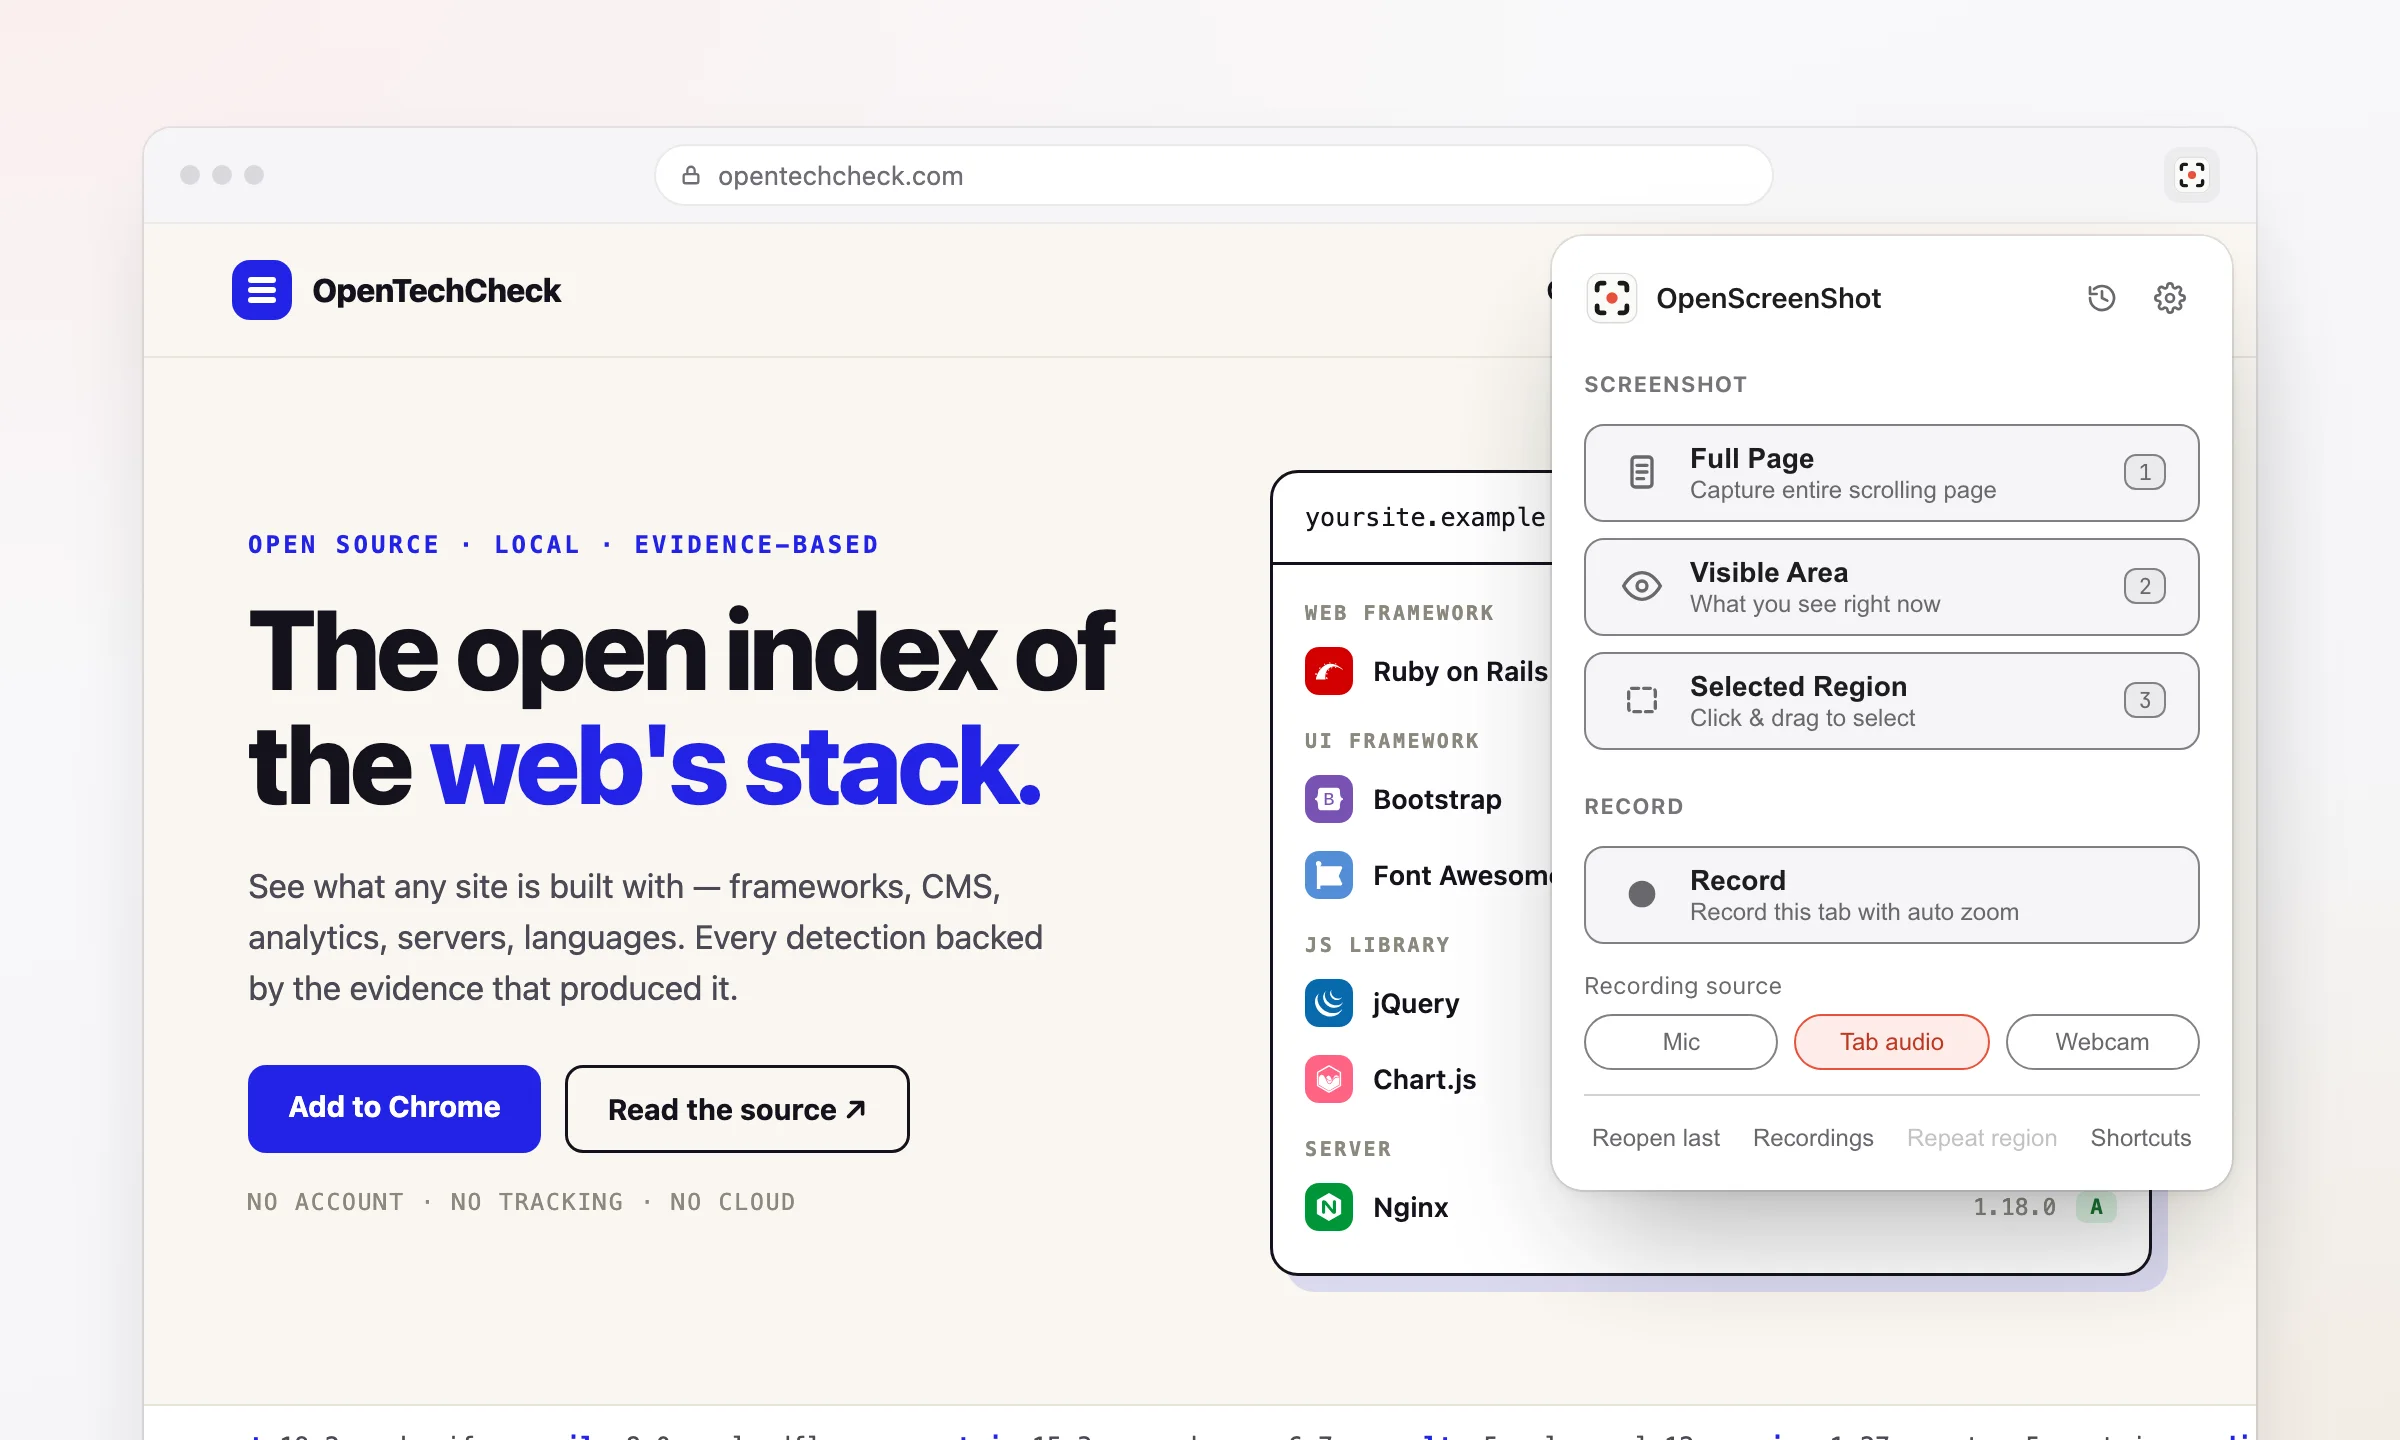
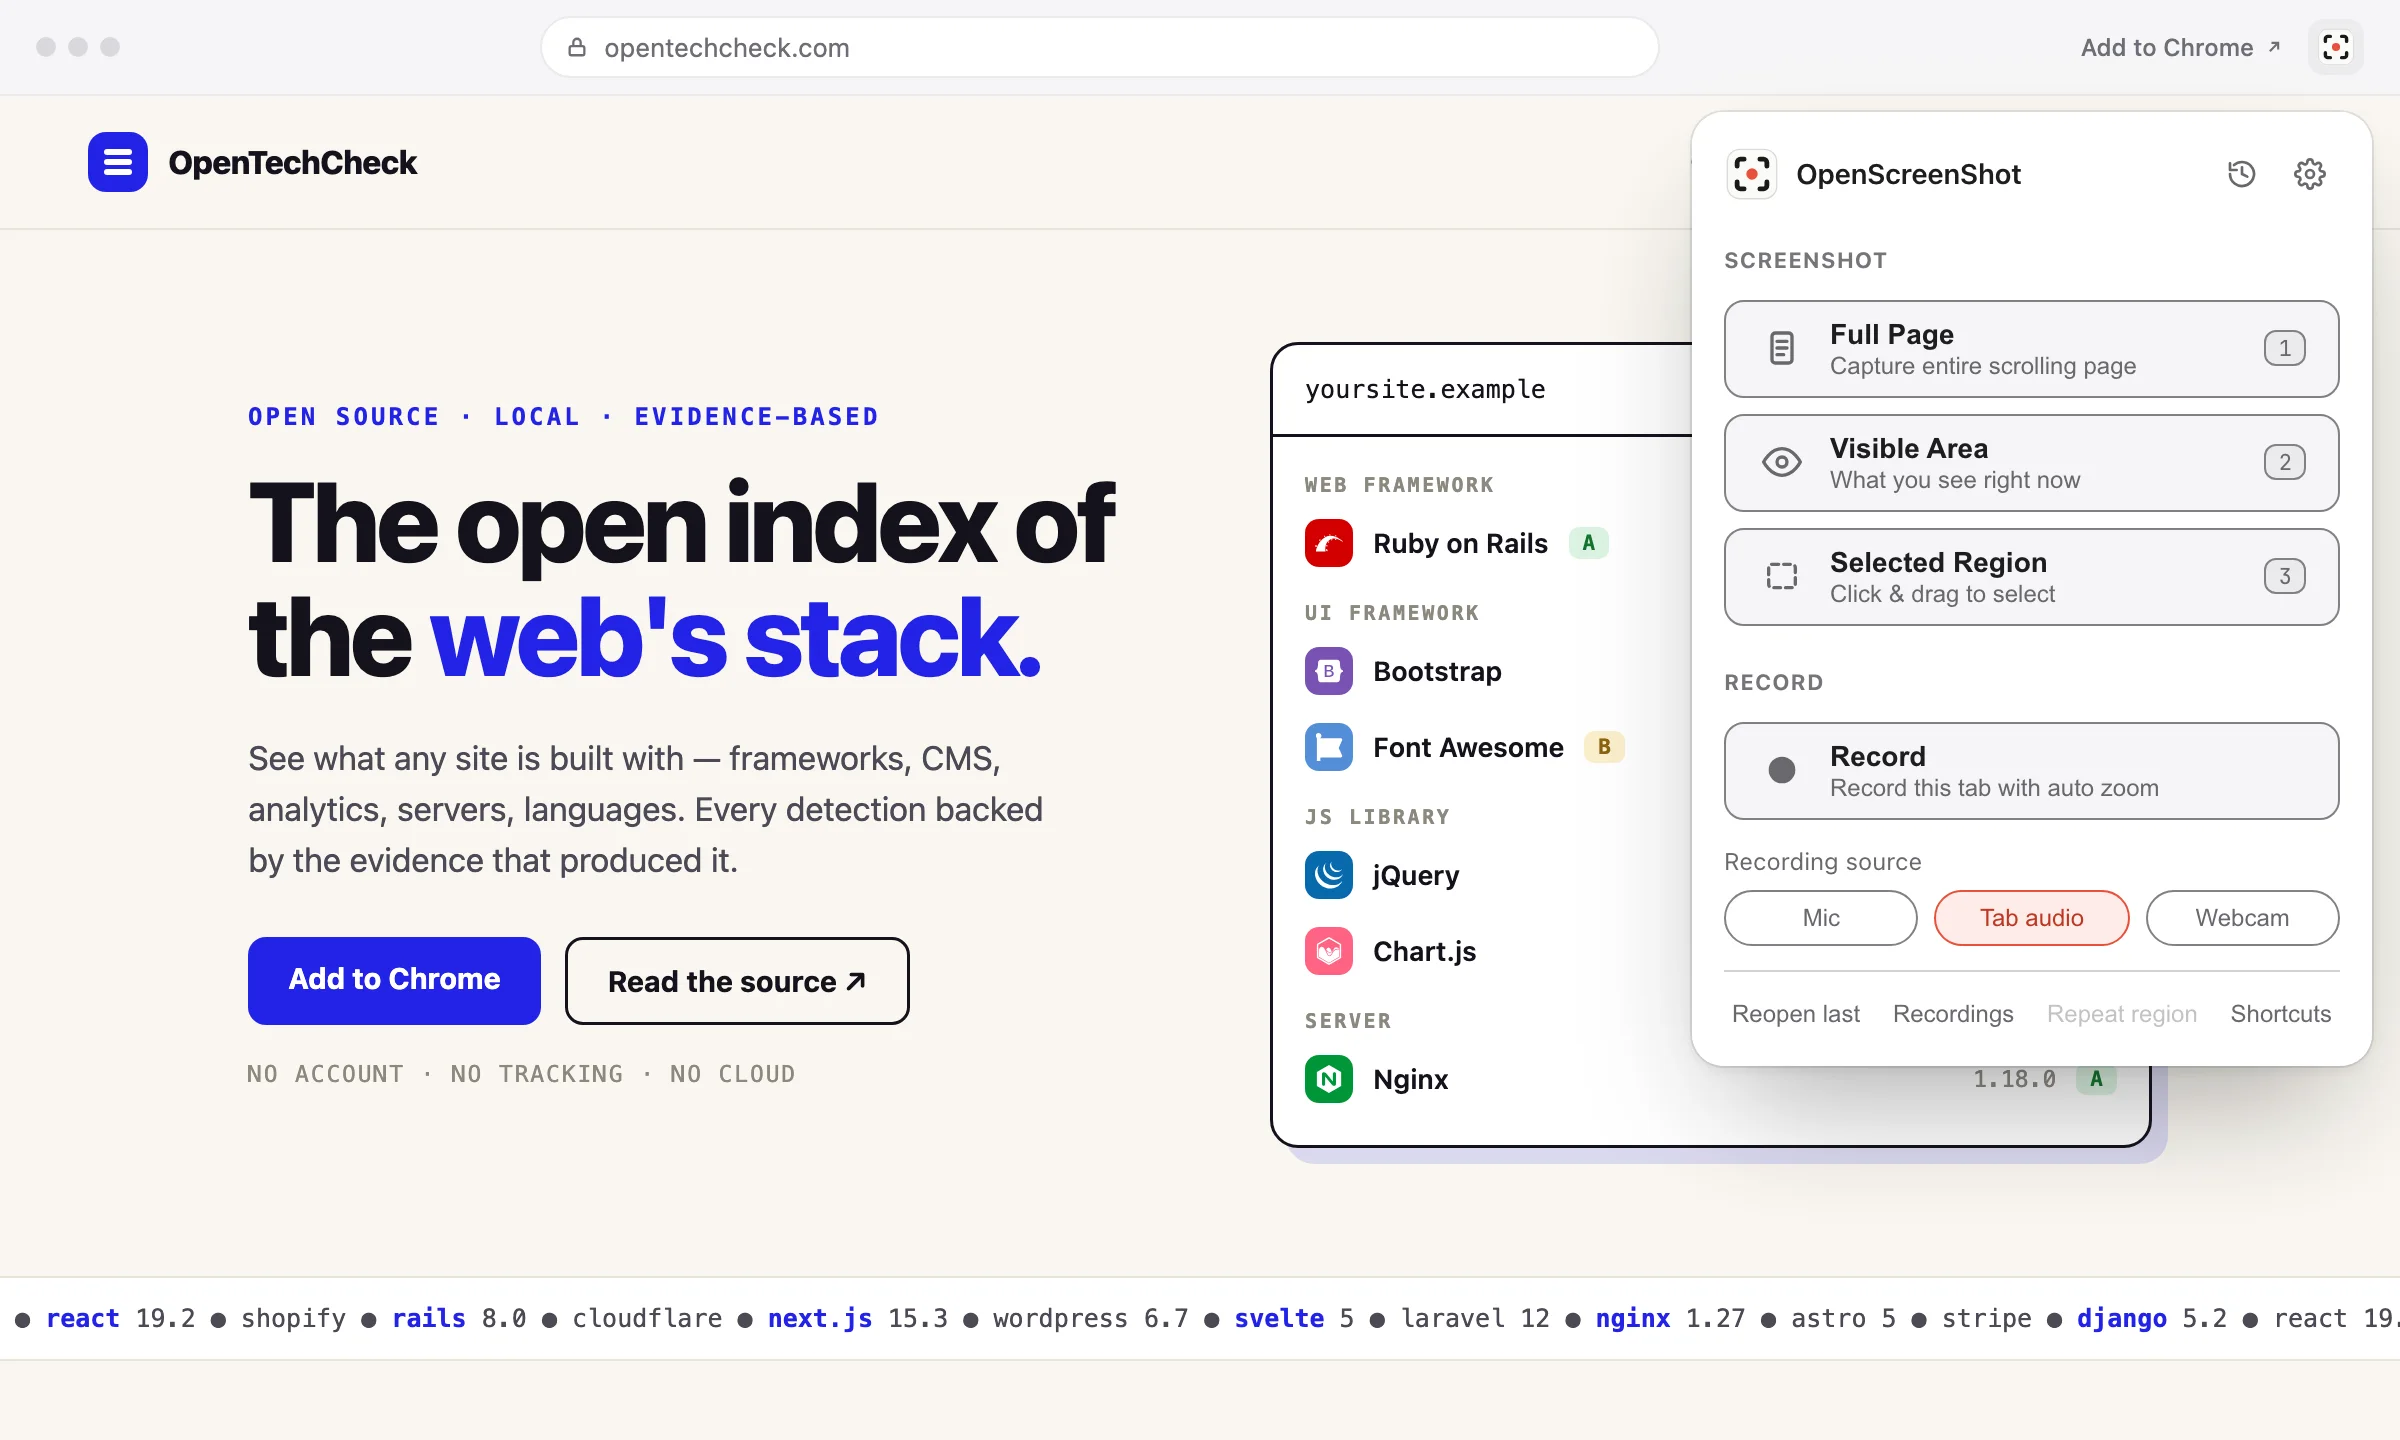
feat(site): give the hero showcase a real stage
The gradient frame becomes a lit stage instead of a thin rim: a
radial highlight top-left, a wine shade sinking bottom-right, inset
panels with their own drop shadow, and 28px outer corners. Tabs carry
their line icons beside the labels. The five site posters render the
browser window full-bleed — the old light ground margin double-framed
every shot inside the site's own cards — and the hero window gains the
corner 'Add to Chrome' link the reference wears. The unused flat
frame-grad utility and token are gone.

diff --git a/scripts/shots/hero.html b/scripts/shots/hero.html
@@ -6,14 +6,7 @@
     <link rel="stylesheet" href="poster-site.css" />
     <style>
       /* The homepage's top shot, 1200x720: the real popup, whole, hanging
-         from the toolbar icon of a browser window that runs off the bottom
-         of the frame. */
-      .window {
-        left: 72px;
-        right: 72px;
-        top: 64px;
-        height: 720px;
-      }
+         from the toolbar icon of a full-bleed browser window. */
       .window-top {
         height: 48px;
         padding: 0 18px;
@@ -27,19 +20,18 @@
         height: 672px;
       }
       .window-body iframe {
-        width: 1056px;
+        width: 1200px;
         height: 1100px;
       }
       /* Chrome opens the popup under the toolbar icon it belongs to, flush
          with the window's right edge. */
       .popup {
-        right: 84px;
-        top: 118px;
+        right: 14px;
+        top: 56px;
       }
     </style>
   </head>
   <body>
-    <div class="ground"></div>
     <div class="window">
       <div class="window-top">
         <span class="lights"><i></i><i></i><i></i></span>
@@ -56,6 +48,19 @@
             <path d="M8 11V7a4 4 0 0 1 8 0v4" />
           </svg>
           opentechcheck.com
+        </span>
+        <span class="install-link">
+          Add to Chrome
+          <svg
+            width="10"
+            height="10"
+            viewBox="0 0 24 24"
+            fill="none"
+            stroke="currentColor"
+            stroke-width="2.5"
+          >
+            <path d="M7 17 17 7M9 7h8v8" />
+          </svg>
         </span>
         <span class="ext-icon"><img src="brand-mark.svg" width="20" height="20" alt="" /></span>
       </div>

diff --git a/scripts/shots/shot-2.html b/scripts/shots/shot-2.html
@@ -9,25 +9,19 @@
          src/content/region-select.ts draws: a 40% mask, a dashed black
          border with a white halo, four round corner handles, the live W×H
          readout, and the Capture / Cancel bar. */
-      .window {
-        left: 80px;
-        right: 80px;
-        top: 64px;
-        height: 700px;
-      }
       .window-body {
-        height: 656px;
+        height: 676px;
       }
       .window-body iframe {
-        width: 1040px;
+        width: 1200px;
         height: 1000px;
       }
       .sel {
         position: absolute;
-        left: 548px;
-        top: 108px;
-        width: 420px;
-        height: 300px;
+        left: 648px;
+        top: 118px;
+        width: 452px;
+        height: 310px;
         border: 2px dashed #000;
         outline: 1px solid #fff;
         outline-offset: 1px;
@@ -88,7 +82,6 @@
     </style>
   </head>
   <body>
-    <div class="ground"></div>
     <div class="window">
       <div class="window-top">
         <span class="lights"><i></i><i></i><i></i></span>
@@ -102,7 +95,7 @@
           <span class="h" style="right: -7px; top: -7px"></span>
           <span class="h" style="left: -7px; bottom: -7px"></span>
           <span class="h" style="right: -7px; bottom: -7px"></span>
-          <span class="readout">420 × 300</span>
+          <span class="readout">452 × 310</span>
           <span class="bar"><b>Capture</b><span>Cancel</span></span>
         </div>
       </div>

diff --git a/scripts/shots/poster-site.css b/scripts/shots/poster-site.css
@@ -25,26 +25,15 @@ body {
   position: relative;
 }
 
-/* ---- Ground ---- */
-.ground {
-  position: absolute;
-  inset: 0;
-  background:
-    radial-gradient(110% 80% at 0% 0%, rgba(232, 80, 58, 0.07), rgba(232, 80, 58, 0) 60%),
-    radial-gradient(90% 80% at 100% 100%, rgba(245, 166, 35, 0.08), rgba(245, 166, 35, 0) 60%),
-    linear-gradient(160deg, #fbfbfc 0%, #f2f2f4 100%);
-}
-
-/* ---- Browser window ---- */
+/* ---- Browser window ----
+ * Full-bleed: the window IS the poster. The site supplies the stage around
+ * it (the hero gradient frame, the section cards), so a ground margin here
+ * would double-frame every shot. */
 .window {
   position: absolute;
+  inset: 0;
   background: #ffffff;
-  border-radius: 14px;
   overflow: hidden;
-  box-shadow:
-    0 0 0 1px rgba(23, 23, 26, 0.08),
-    0 1px 2px rgba(23, 23, 26, 0.05),
-    0 24px 48px -20px rgba(23, 23, 26, 0.25);
 }
 .window-top {
   display: flex;
@@ -120,4 +109,16 @@ body {
      size Chrome draws it. */
   width: 340px;
   height: auto;
+}
+
+/* the quiet install link in the window's top bar, like the reference's
+   "Add to your Slack" corner link */
+.install-link {
+  display: flex;
+  align-items: center;
+  gap: 5px;
+  color: #6e6e76;
+  font-size: 12px;
+  font-weight: 500;
+  white-space: nowrap;
 }

diff --git a/scripts/shots/shot-5.html b/scripts/shots/shot-5.html
@@ -8,21 +8,19 @@
       /* The real recorder editor (recorder.png), timeline and all: the
          capture is 1280x800 and the window shows it whole, so the
          auto-zoom blocks at the bottom stay in the picture. */
-      .window {
-        left: 80px;
-        right: 80px;
-        top: 20px;
-        height: 700px;
+      .window-body {
+        height: 676px;
+        background: #1b1b1d;
       }
       .window-body img {
         width: 1280px;
         height: 800px;
-        transform: scale(0.8125);
+        margin-left: 59px;
+        transform: scale(0.845);
       }
     </style>
   </head>
   <body>
-    <div class="ground"></div>
     <div class="window">
       <div class="window-top">
         <span class="lights"><i></i><i></i><i></i></span>

diff --git a/site/src/styles/base.css b/site/src/styles/base.css
@@ -232,26 +232,6 @@ samp {
   box-shadow: var(--sh-card);
 }
 
-/* ---- Gradient frame ----
- * The coral-to-amber border around hero-grade screenshots, drawn as a padded
- * gradient ground behind a clipped white tile.
- */
-
-.frame-grad {
-  padding: 8px;
-  border-radius: calc(var(--r-xl) + 8px);
-  background: var(--grad-frame);
-  box-shadow: var(--sh-card);
-}
-
-/* Concentric corners: the inner radius is the outer radius minus the padding,
- * so the gradient band keeps one visual thickness around the bend. */
-.frame-grad > * {
-  border-radius: var(--r-xl);
-  overflow: hidden;
-  background: var(--paper);
-}
-
 /* The second, quieter half of a two-tone heading. */
 .muted {
   color: var(--ink-3);

diff --git a/scripts/shots/shot-3.html b/scripts/shots/shot-3.html
@@ -7,21 +7,17 @@
     <style>
       /* The real editor capture (1280x800 at 2x) in the window, scaled to the
          window's width; the bottom of the editor runs off the frame. */
-      .window {
-        left: 80px;
-        right: 80px;
-        top: 64px;
-        height: 700px;
+      .window-body {
+        height: 676px;
       }
       .window-body img {
         width: 1280px;
         height: 800px;
-        transform: scale(0.8125);
+        transform: scale(0.9375);
       }
     </style>
   </head>
   <body>
-    <div class="ground"></div>
     <div class="window">
       <div class="window-top">
         <span class="lights"><i></i><i></i><i></i></span>

diff --git a/scripts/shots/shot-4.html b/scripts/shots/shot-4.html
@@ -7,21 +7,17 @@
     <style>
       /* The real editor with its export dialog open (editor-export.png),
          same window and scale as shot-3 so the two read as one sequence. */
-      .window {
-        left: 80px;
-        right: 80px;
-        top: 64px;
-        height: 700px;
+      .window-body {
+        height: 676px;
       }
       .window-body img {
         width: 1280px;
         height: 800px;
-        transform: scale(0.8125);
+        transform: scale(0.9375);
       }
     </style>
   </head>
   <body>
-    <div class="ground"></div>
     <div class="window">
       <div class="window-top">
         <span class="lights"><i></i><i></i><i></i></span>

diff --git a/site/src/styles/tokens.css b/site/src/styles/tokens.css
@@ -104,9 +104,6 @@
   /* the raised-card edge and shadow every tile shares */
   --sh-card: 0 1px 2px rgba(23, 23, 26, 0.04), 0 16px 40px -24px rgba(23, 23, 26, 0.22);
 
-  /* the coral-to-amber frame around hero-grade screenshots */
-  --grad-frame: linear-gradient(135deg, #e8503a 0%, #ef7132 55%, #f5a623 100%);
-
   /* deep-ink slabs hold code */
   --slab: #17171a;
   --slab-ink: #f7f7f8;
